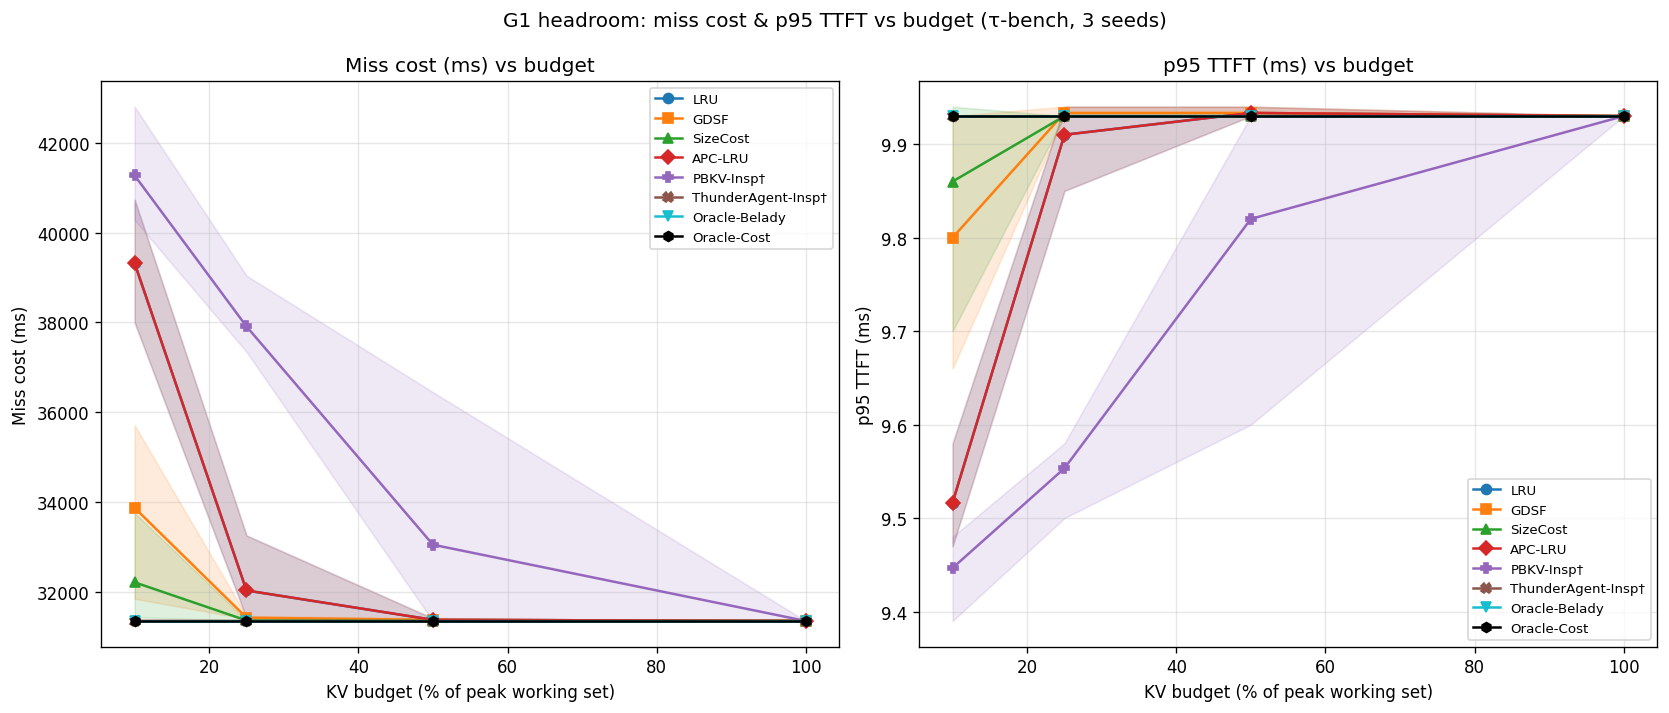
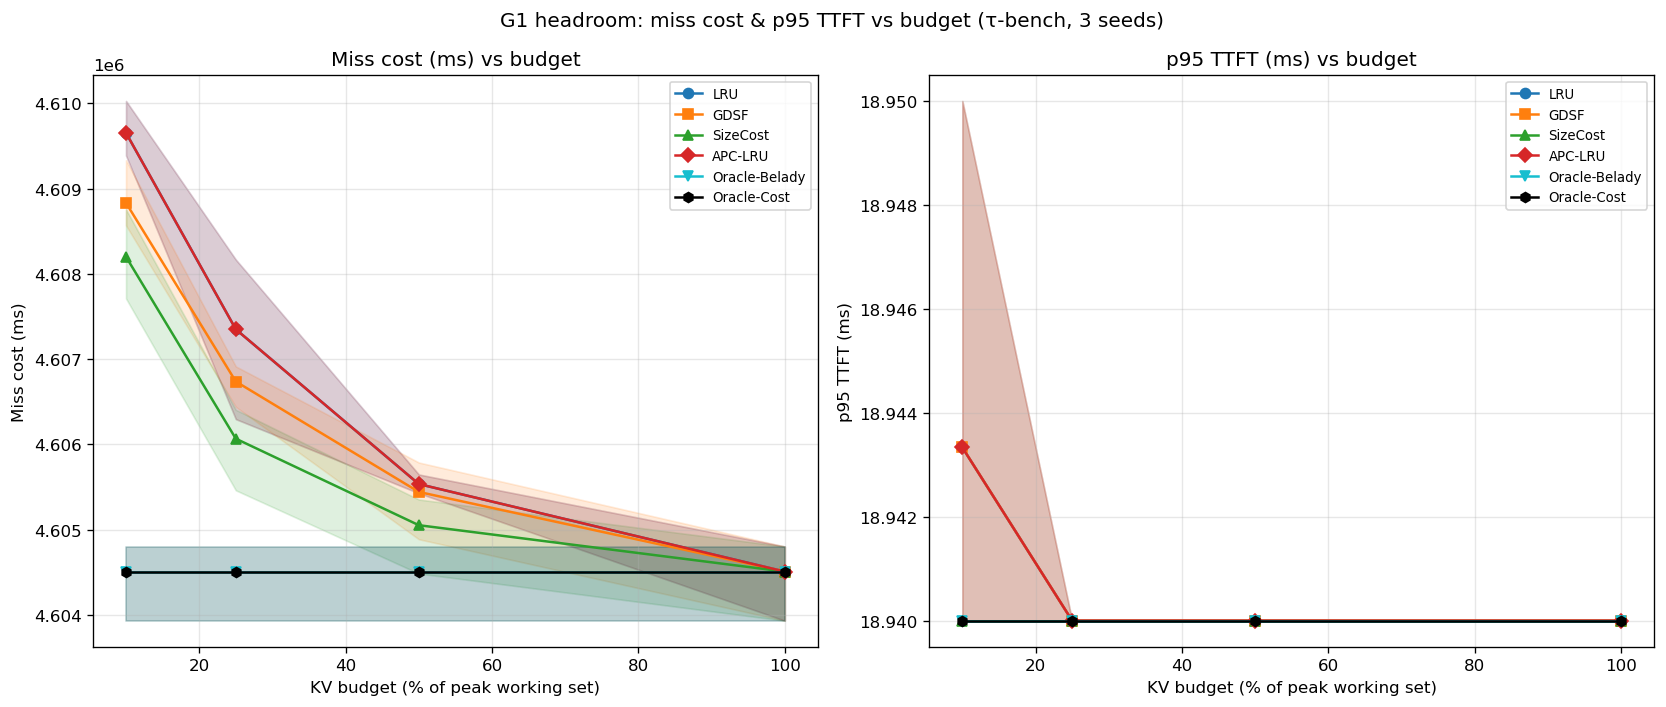
chore(g1): regenerate G1 verdict on local machine (1320 tau-bench traces)
Re-ran run_grid.py (7 baselines x 4 budgets x 3 seeds), verdict.py, plot_headroom.py. Updated IDEA.rewritten.md, ccfa.yaml, experiment-designs.md.

diff --git a/experiments/g1/g1-verdict.md b/experiments/g1/g1-verdict.md
@@ -2,23 +2,20 @@
 
 Generated by `experiments/g1/verdict.py` from `experiments/g1/results/raw_results.csv`.
 
-**Pilot note**: pilot: 26/1320 episodes available
-
-
 ## G1.11.1 表 G1-1：headroom 主表（tau_bench, 3 replay seeds）
 
 | 策略 | 预算 10% miss cost (ms) | 预算 25% miss cost (ms) | 预算 50% miss cost (ms) | 预算 100% miss cost (ms) | 预算 10% p95 TTFT (ms) | 预算 25% p95 TTFT (ms) | 预算 50% p95 TTFT (ms) | 预算 100% p95 TTFT (ms) |
 |---|---|---|---|---|---|---|---|---|
-| apc_lru | 39315.13 | 32027.82 | 31373.64 | 31348.80 | 9.52 | 9.91 | 9.93 | 9.93 |
-| lru | 39315.13 | 32027.82 | 31373.64 | 31348.80 | 9.52 | 9.91 | 9.93 | 9.93 |
-| gdsf | 33867.13 | 31422.13 | 31373.64 | 31348.80 | 9.80 | 9.93 | 9.93 | 9.93 |
-| sizecost | 32209.15 | 31359.47 | 31348.80 | 31348.80 | 9.86 | 9.93 | 9.93 | 9.93 |
-| pbkv_inspired | 41271.20 | 37908.66 | 33047.47 | 31348.80 | 9.45 | 9.55 | 9.82 | 9.93 |
-| thunderagent_inspired | 31352.86 | 31348.80 | 31348.80 | 31348.80 | 9.93 | 9.93 | 9.93 | 9.93 |
+| apc_lru | 4609654.73 | 4607350.14 | 4605534.49 | 4604507.42 | 18.94 | 18.94 | 18.94 | 18.94 |
+| lru | 4609654.73 | 4607350.14 | 4605534.49 | 4604507.42 | 18.94 | 18.94 | 18.94 | 18.94 |
+| gdsf | 4608833.56 | 4606737.62 | 4605442.11 | 4604507.42 | 18.94 | 18.94 | 18.94 | 18.94 |
+| sizecost | 4608201.12 | 4606066.82 | 4605051.85 | 4604507.42 | 18.94 | 18.94 | 18.94 | 18.94 |
+| pbkv_inspired | TBD | TBD | TBD | TBD | TBD | TBD | TBD | TBD |
+| thunderagent_inspired | TBD | TBD | TBD | TBD | TBD | TBD | TBD | TBD |
 | kvflow_faithful | pending | pending | pending | pending | pending | pending | pending | pending |
-| belady | 31348.80 | 31348.80 | 31348.80 | 31348.80 | 9.93 | 9.93 | 9.93 | 9.93 |
-| oracle_cost | 31348.80 | 31348.80 | 31348.80 | 31348.80 | 9.93 | 9.93 | 9.93 | 9.93 |
-| **oracle vs 最佳简单策略相对差** | -25.4% | -2.2% | -0.1% | 0.0% | — | — | — | — |
+| belady | 4604507.42 | 4604507.42 | 4604507.42 | 4604507.42 | 18.94 | 18.94 | 18.94 | 18.94 |
+| oracle_cost | 4604507.42 | 4604507.42 | 4604507.42 | 4604507.42 | 18.94 | 18.94 | 18.94 | 18.94 |
+| **oracle vs 最佳简单策略相对差** | -0.1% | -0.1% | -0.0% | 0.0% | — | — | — | — |
 
 
 
@@ -40,9 +37,9 @@ Generated by `experiments/g1/verdict.py` from `experiments/g1/results/raw_result
 
 |---|---|---|---|---|
 
-| 10% | -25.41% | -29.93% | -21.20% | False |
-| 25% | -2.21% | -6.07% | -0.21% | False |
-| 50% | -0.08% | -0.19% | -0.03% | False |
+| 10% | -0.11% | -0.12% | -0.10% | False |
+| 25% | -0.06% | -0.07% | -0.05% | False |
+| 50% | -0.02% | -0.03% | -0.02% | False |
 | 100% | 0.00% | 0.00% | 0.00% | False |
 
 
@@ -51,9 +48,9 @@ Generated by `experiments/g1/verdict.py` from `experiments/g1/results/raw_result
 
 - **headroom**: fail
 
-- **comparability**: pass
+- **comparability**: fail
 
-  - Available closest baselines: ['pbkv_inspired', 'thunderagent_inspired']
+  - Available closest baselines: []
 
   - Pending: ['kvflow_faithful']
 
@@ -65,5 +62,3 @@ Generated by `experiments/g1/verdict.py` from `experiments/g1/results/raw_result
 - G1 复用 E1 trace 与 baseline 实现（IDEA §8 Ch.1 line 617），不独立运行。
 
 - kvflow_faithful 行 status=pending（adapter_not_implemented），不影响其他 baseline 运行。
-
-- **当前为 pilot 模式**：trace 不足，结果不可作为最终 G1 判定。

diff --git a/IDEA.rewritten.md b/IDEA.rewritten.md
@@ -556,6 +556,25 @@ v0.3 将 workload 体系按实验章节分层，主表严格限定两个工具 w
 
 **失败动作**：转向“何时工作流结构产生物理 KV 复用”的 benchmark/characterization 论文。
 
+### 7.X G1′: 物理前缀重编译与正确回放（2026-07-26 修正）
+
+**状态**：代码已实现，等待云服务器全量运行
+
+G1 判定为 fail（headroom ≈ 0%），但该判定 **protocol-invalid / inconclusive**：
+- 轨迹按单条 message 独立分词，未使用完整 chat template；
+- 把“块创建”当成“块访问”——每次 assistant 恢复生成时实际访问完整历史前缀，但轨迹只记录每块一次；
+- 容量定义脱离 24GB GPU 现实（10% budget ≈ 41.4 GiB）；
+- 并发、TTFT、bootstrap 统计单位均不正确。
+
+G1′ 用已有 1,320 条 τ-bench 轨迹重做，不重新运行 τ-bench 对话：
+- 重编译为物理精确前缀访问流（完整 chat template + 跨 message 连续分块）
+- 绝对 KV 容量（1/2/4/6 GiB，替代百分比 budget）
+- 并发模拟（c=1/4/8，测试缓存竞争）
+- 165 task group 聚类 bootstrap（替代 3 replay seed）
+- 通过条件：headroom_rel ≥ 10% AND CI lower > 0
+
+**G1′ 通过 → P1-A（联合 R-D 控制器）；不通过 → Route B（Cacheability Gap Benchmark）**
+
 ### G2：Two-Axis Necessity
 
 - 测量 future-use/recompute value 与 $D_{b,q}$ 的 rank correlation，但不把低相关本身当作充分证据；
